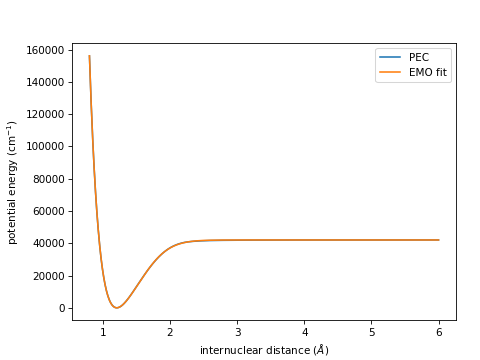
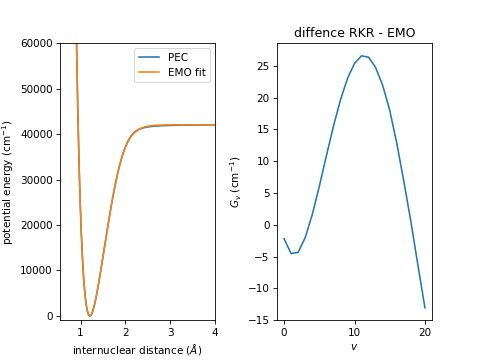
bugfix for LeRoy.py EMO, parameter list incorrect

diff --git a/examples/example_expanded_Morse_oscillator.py b/examples/example_expanded_Morse_oscillator.py
@@ -5,24 +5,49 @@ import matplotlib.pyplot as plt
 # potential curve data   O2 X-state
 R, V = np.loadtxt('potentials/X3S-1.dat', unpack=True)
 
-# trim
 subR = np.logical_and(R >= 0.8, R <= 6)
 R = R[subR]
 V = V[subR]
 
-morse = cse.tools.LeRoy.Morsefit(R, V, Rref=2.5, Nbeta=5, q=3,
+morse = cse.tools.LeRoy.Morsefit(R, V, Rref=2.0, Nbeta=5, q=4,
                                  fitpar=['beta', 'Rref', 'Re'])
 
-print(morse.est.x)  # betas from linear fit
-print(morse.fit.message)
-print(morse.fit.x)  # fitpar from full EMO fit = beta, Rref, Re
+print('linear fit betas:\n',morse.est.x)  # betas from linear fit
+print('full EMO fit message:\n', morse.fit.message)
+print('full EMO fit parameters betas, Rref, Re:\n',morse.fit.x) 
 
-plt.plot(R, V, label='PEC')
-plt.plot(morse.R, morse.VEMO, label='EMO fit')
-plt.legend()
-plt.xlabel(r'internuclear distance ($\AA$)')
-plt.ylabel(r'potential energy (cm$^{-1}$)')
-plt.subplots_adjust(left=0.15, right=0.95)
+# compare eignevalues ---------------------------------------
+# eigenvalues - RKR potential curve
+Xrkr = cse.Cse('O2', VT=[(R, V)])
+Xrkr.levels(20)
+
+# expanded Morse oscillator fit
+Xemo = cse.Cse('O2', VT=[(morse.R, morse.VEMO)])
+
+dG = []
+for v, (Gv, Bv, Dv, J) in Xrkr.results.items():
+        if v > 20: break
+        Xemo.solve(Gv)
+        dG.append(Gv - Xemo.results[v][0])
+
+# plot --------------------------------------
+fig, (ax0, ax1) = plt.subplots(1, 2)
+
+ax0.plot(R, V*8065.541, label='PEC')
+ax0.plot(morse.R, morse.VEMO*8065.541, label='EMO fit')
+ax0.legend()
+ax0.set_xlabel(r'internuclear distance ($\AA$)')
+ax0.set_ylabel(r'potential energy (cm$^{-1}$)')
+ax0.axis(xmax=4, ymin=-1000, ymax=60000)
+
+ax1.plot(dG)
+ax1.set_ylabel(r'$G_v$ (cm$^{-1}$)')
+ax1.set_xlabel(r'$v$')
+ax1.set_title('diffence RKR - EMO')
+
+plt.subplots_adjust(wspace=0.4)
 
 plt.savefig('output/example_expanded_Morse_oscillator.png', dpi=75)
 plt.show()
+
+

diff --git a/cse/tools/LeRoy.py b/cse/tools/LeRoy.py
@@ -123,7 +123,8 @@ class Morsefit(Morse):
         for p in self.fitpar:
             if p == 'beta':
                 pars = self.beta
-            pars = np.append(pars, self.__dict__[p])
+            else:
+                pars = np.append(pars, self.__dict__[p])
 
         self.fit = least_squares(residual, pars)
 
